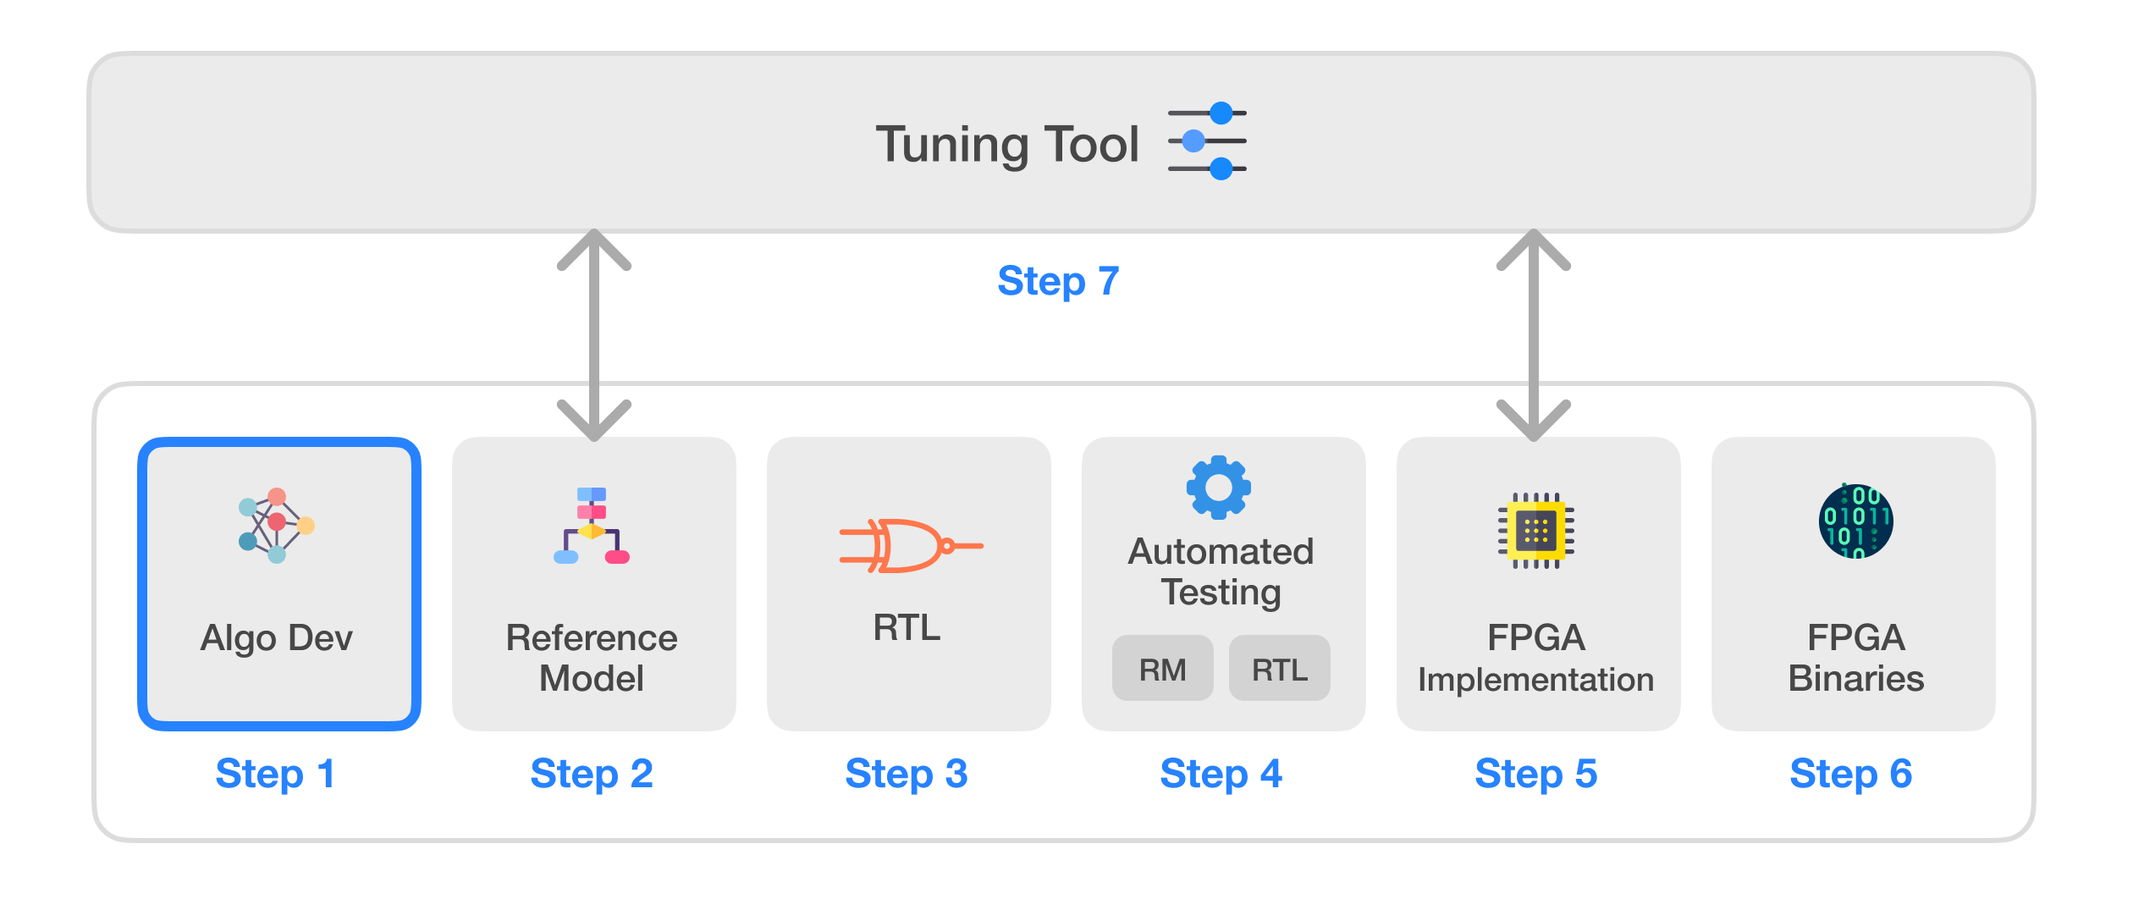
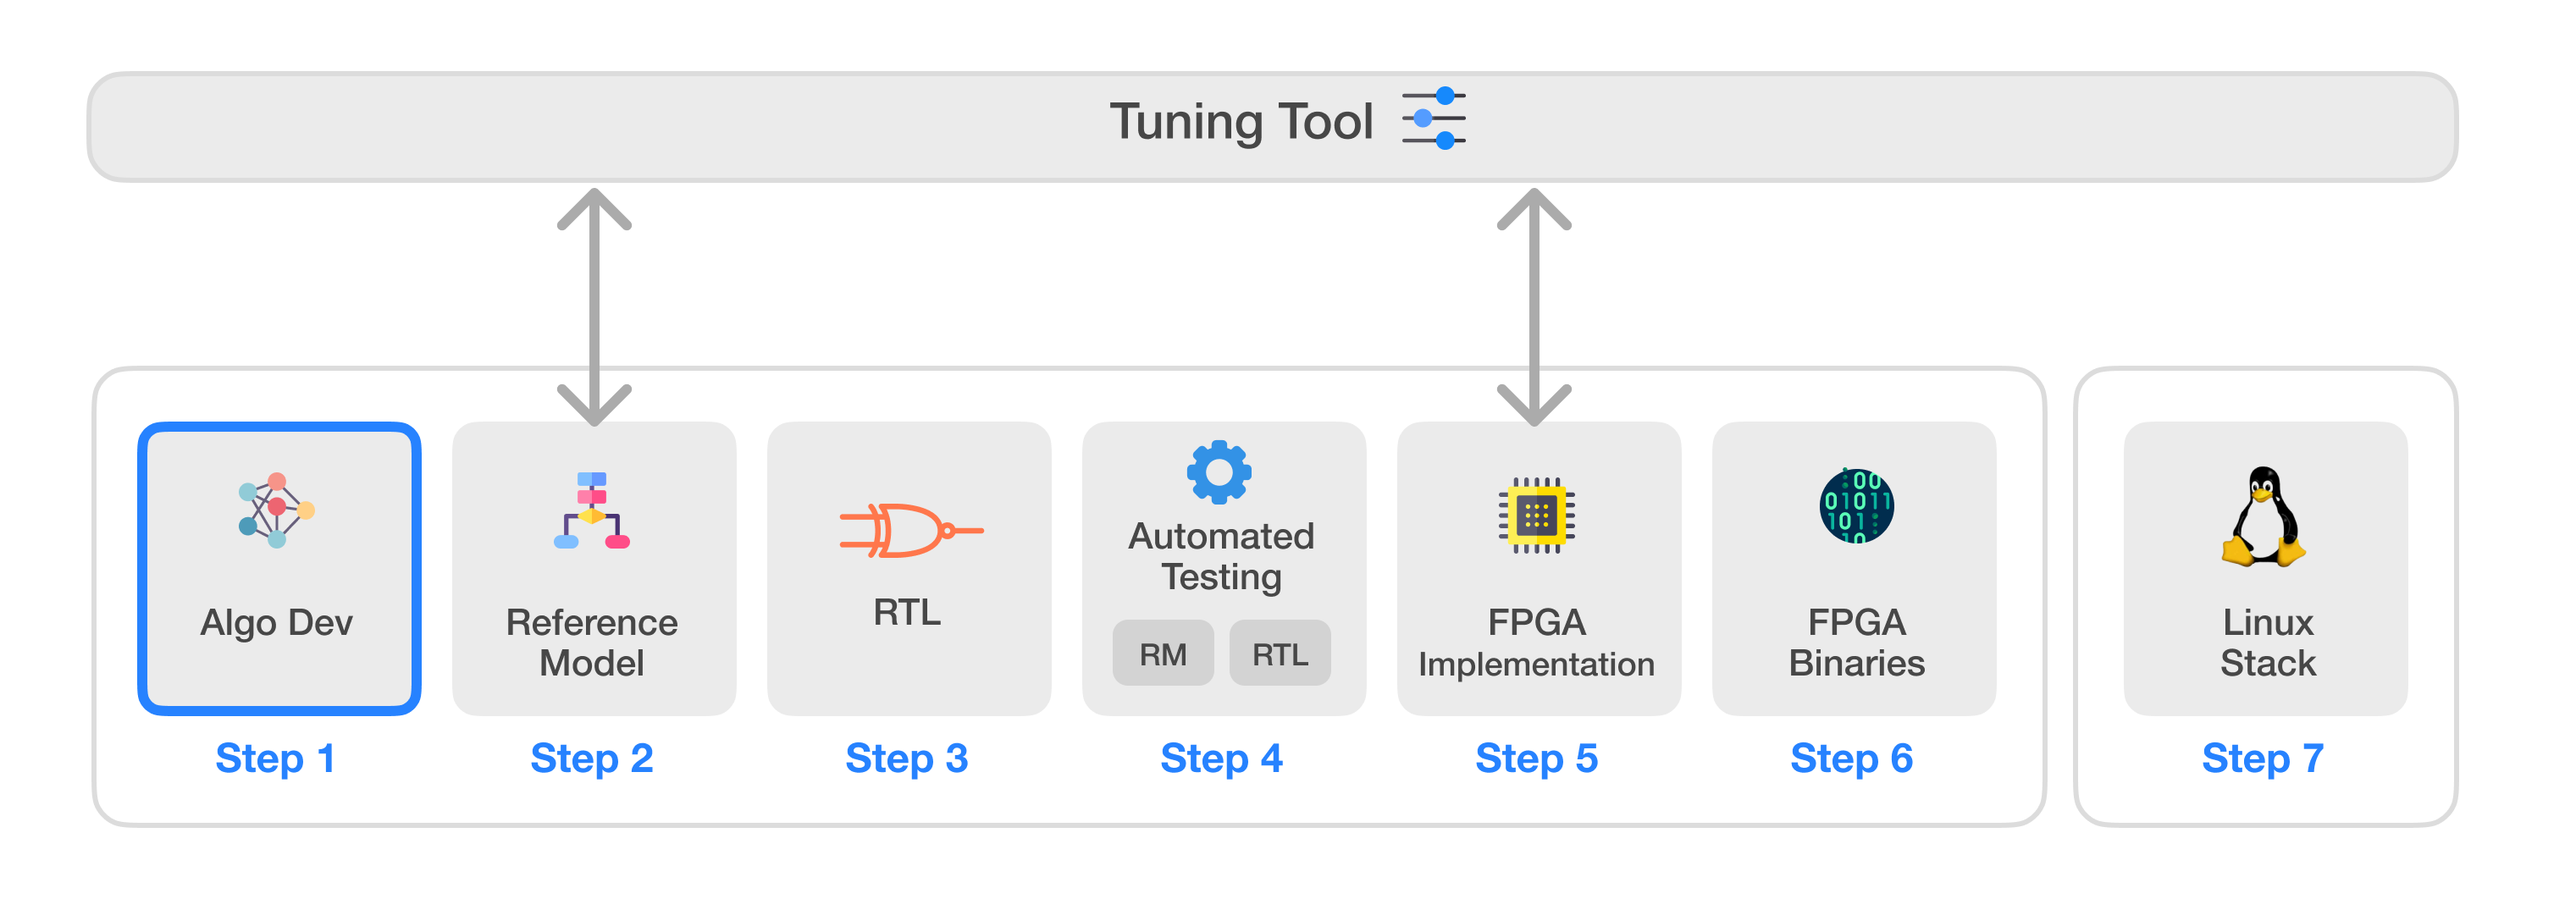
update readme header and repo flow diagram

diff --git a/README.md b/README.md
@@ -1,5 +1,5 @@
 # Infinite-ISP
-Infinite-ISP is a full-stack ISP development platform - from algorithm development to RTL design, FPGA/ASIC implementation, and associated firmware, tools, etc. It offers a unified platform that empowers ISP developers to accelerate ISP innovation. It includes a complete collection of camera pipeline modules written in Python, its associated fixed-point reference model, an optimized RTL design, an FPGA bitstream & the associated Firmware for the implementation of the pipeline on the Kria KV260 development board, and lastly, a stand-alone Python-based Tuning Tool application for the pipeline. The main components of the Infinite-ISP project are listed below:
+Infinite-ISP is a comprehensive development platform designed for all aspects of a hardware ISP. It includes a collection of camera pipeline modules written in Python, a fixed-point reference model, an optimized RTL design, an FPGA integration framework and its associated firmware ready for Xilinx® Kria KV260 development board. The platform features a stand-alone Python-based Tuning Tool that allows tuning of ISP parameters for different sensors and applications. Finally, it also offers a software solution for Linux by providing required drivers and a custom application development stack to bring Infinite-ISP to the Linux platforms.
 
 ![](assets/Infinite-ISP_Repo_Flow.png)
 
@@ -12,6 +12,7 @@ Infinite-ISP is a full-stack ISP development platform - from algorithm developme
 | 5  | **FPGA Implementation** | FPGA implementation of Infinite-ISP on <br>  <ul><li>Xilinx® Kria KV260’s XCK26 Zynq UltraScale + MPSoC **[Infinite-ISP_FPGA_XCK26](https://github.com/10x-Engineers/Infinite-ISP_FPGA_XCK26)**</li></ul>   |
 | 6  | **[Infinite-ISP_FPGABinaries](https://github.com/10x-Engineers/Infinite-ISP_FPGABinaries)**         | FPGA binaries (bitstream + firmware executable) for the Xilinx® Kria KV260’s XCK26 Zynq UltraScale + MPSoC|
 | 7  | **[Infinite-ISP_TuningTool](https://github.com/10x-Engineers/Infinite-ISP_TuningTool)**                              | Collection of calibration and analysis tools for the Infinite-ISP |
+| 8  | **[Infinite-ISP_LinuxCameraStack](https://github.com/10x-Engineers/Infinite-ISP_LinuxCameraStack.git)** | Extending Linux support to Infinite-ISP and the developement of Linux camera stack |
 
 
 # Infinite-ISP Algorithm Design: A Python-based Model for ISP Algorithm Development
